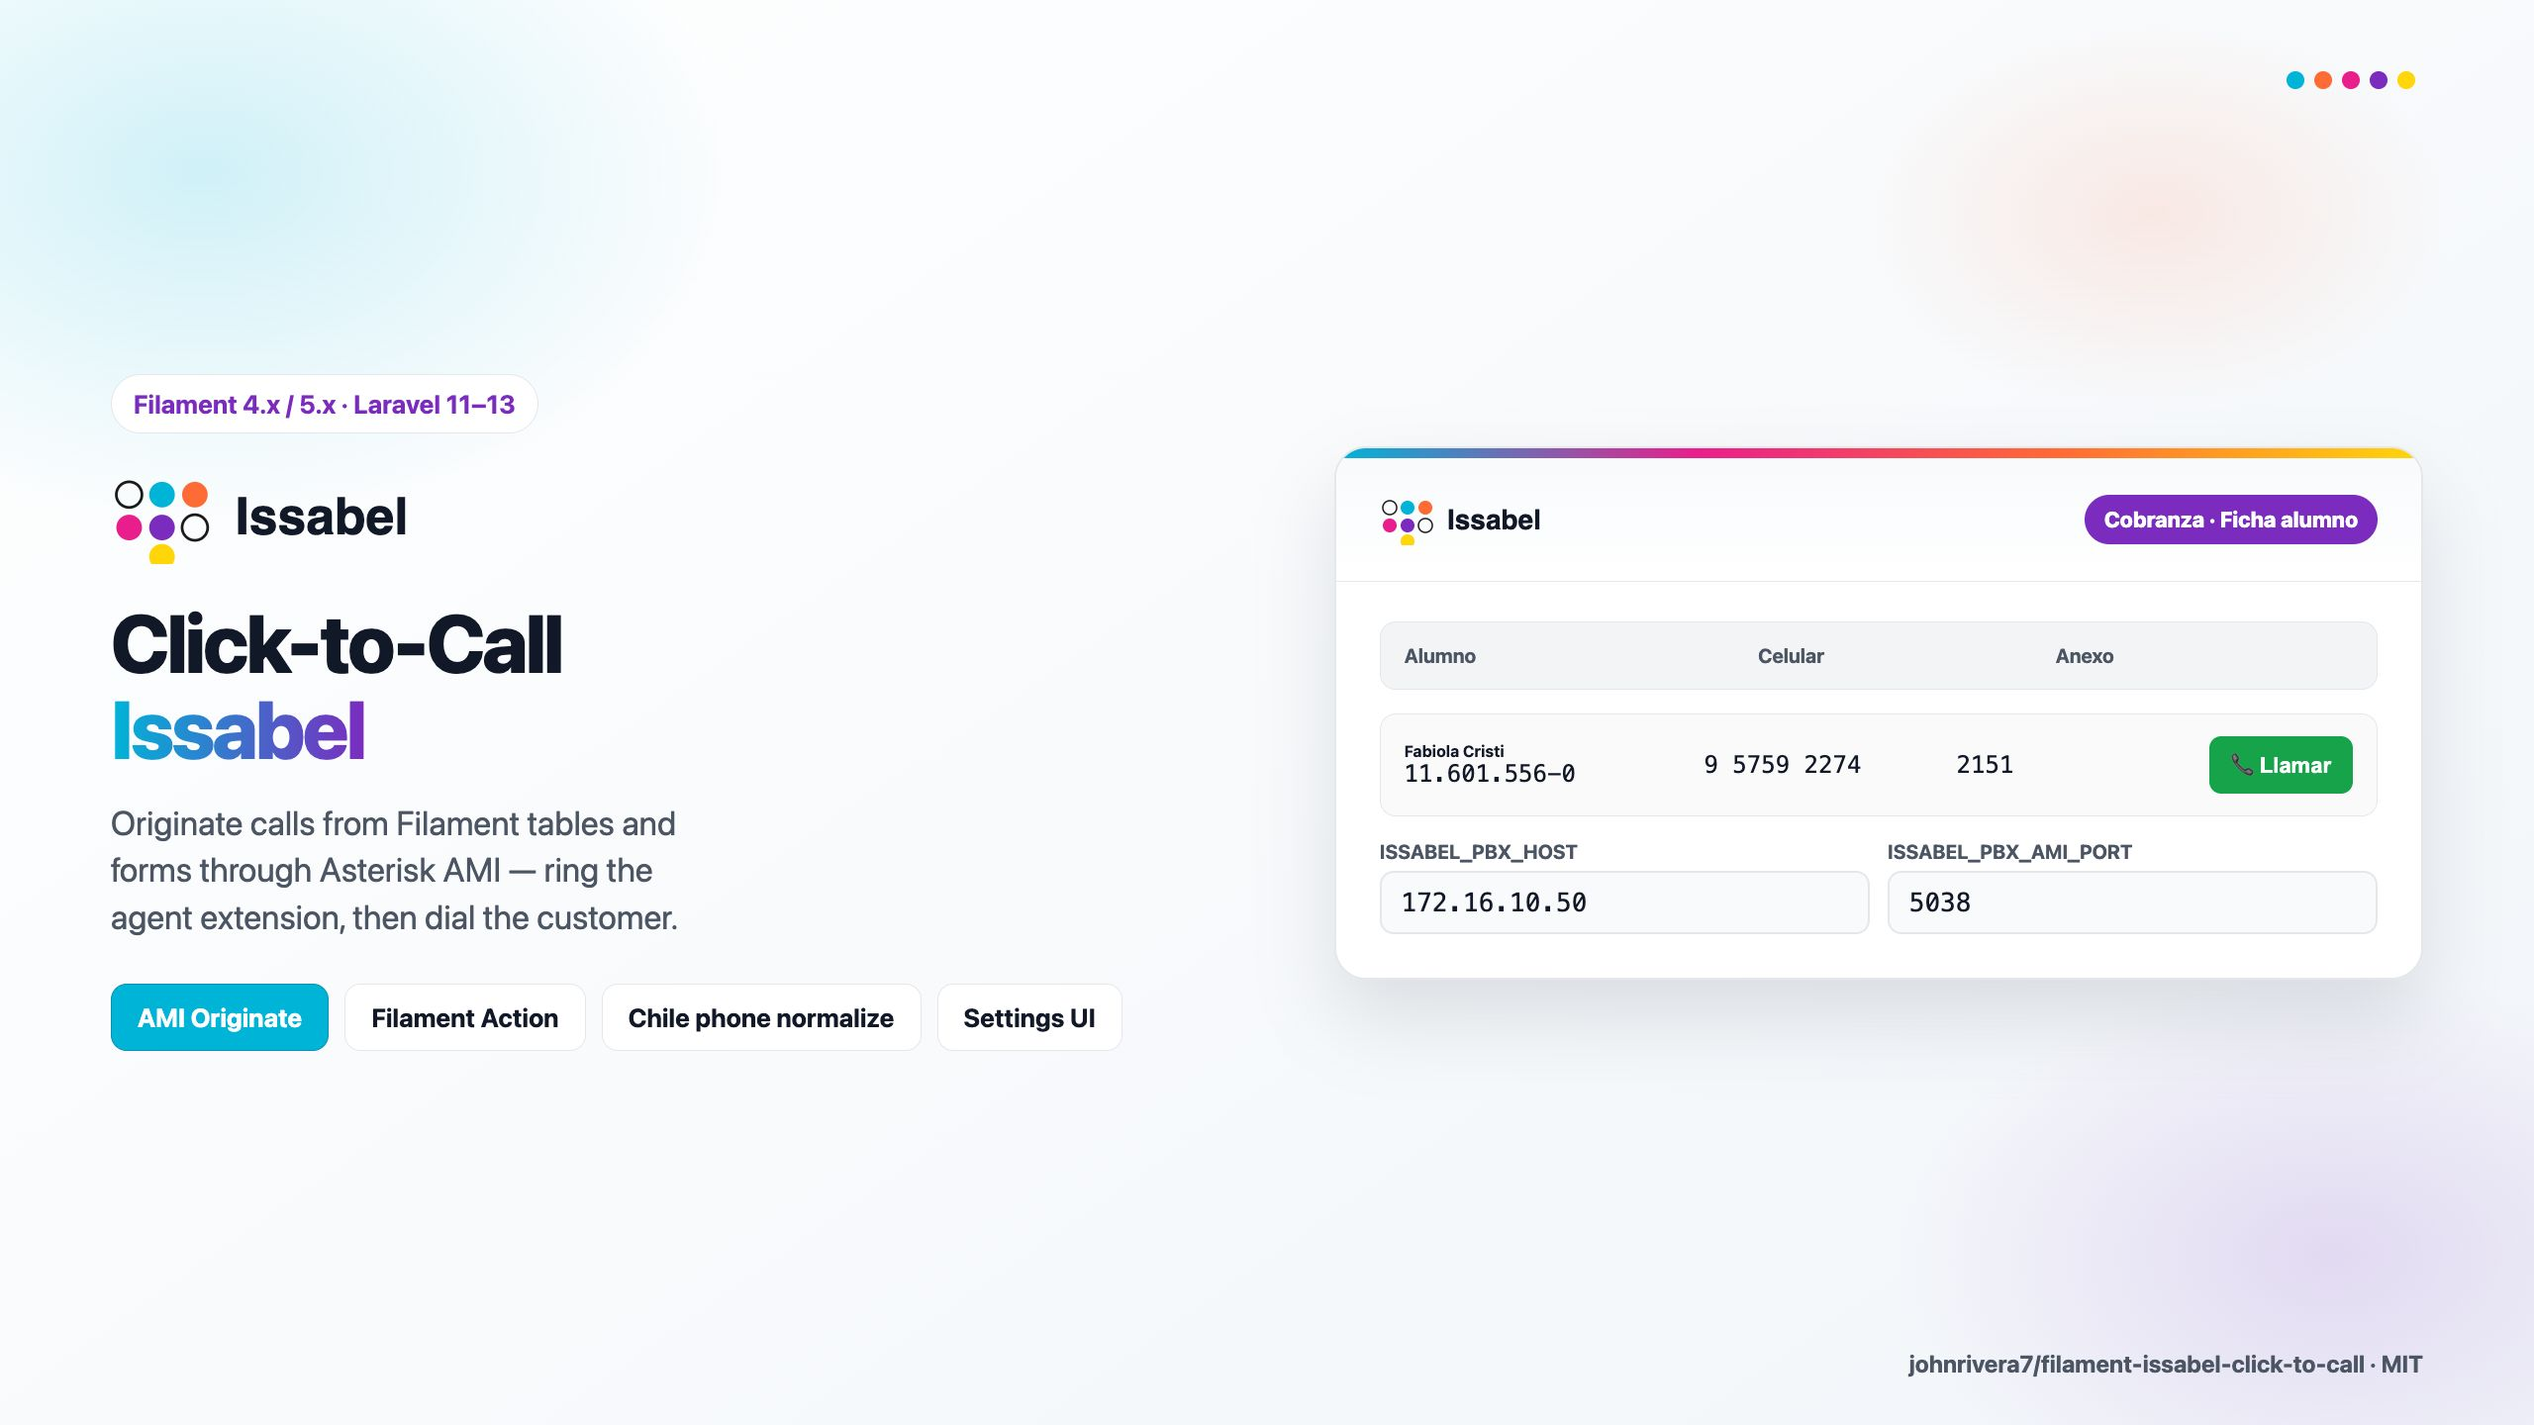
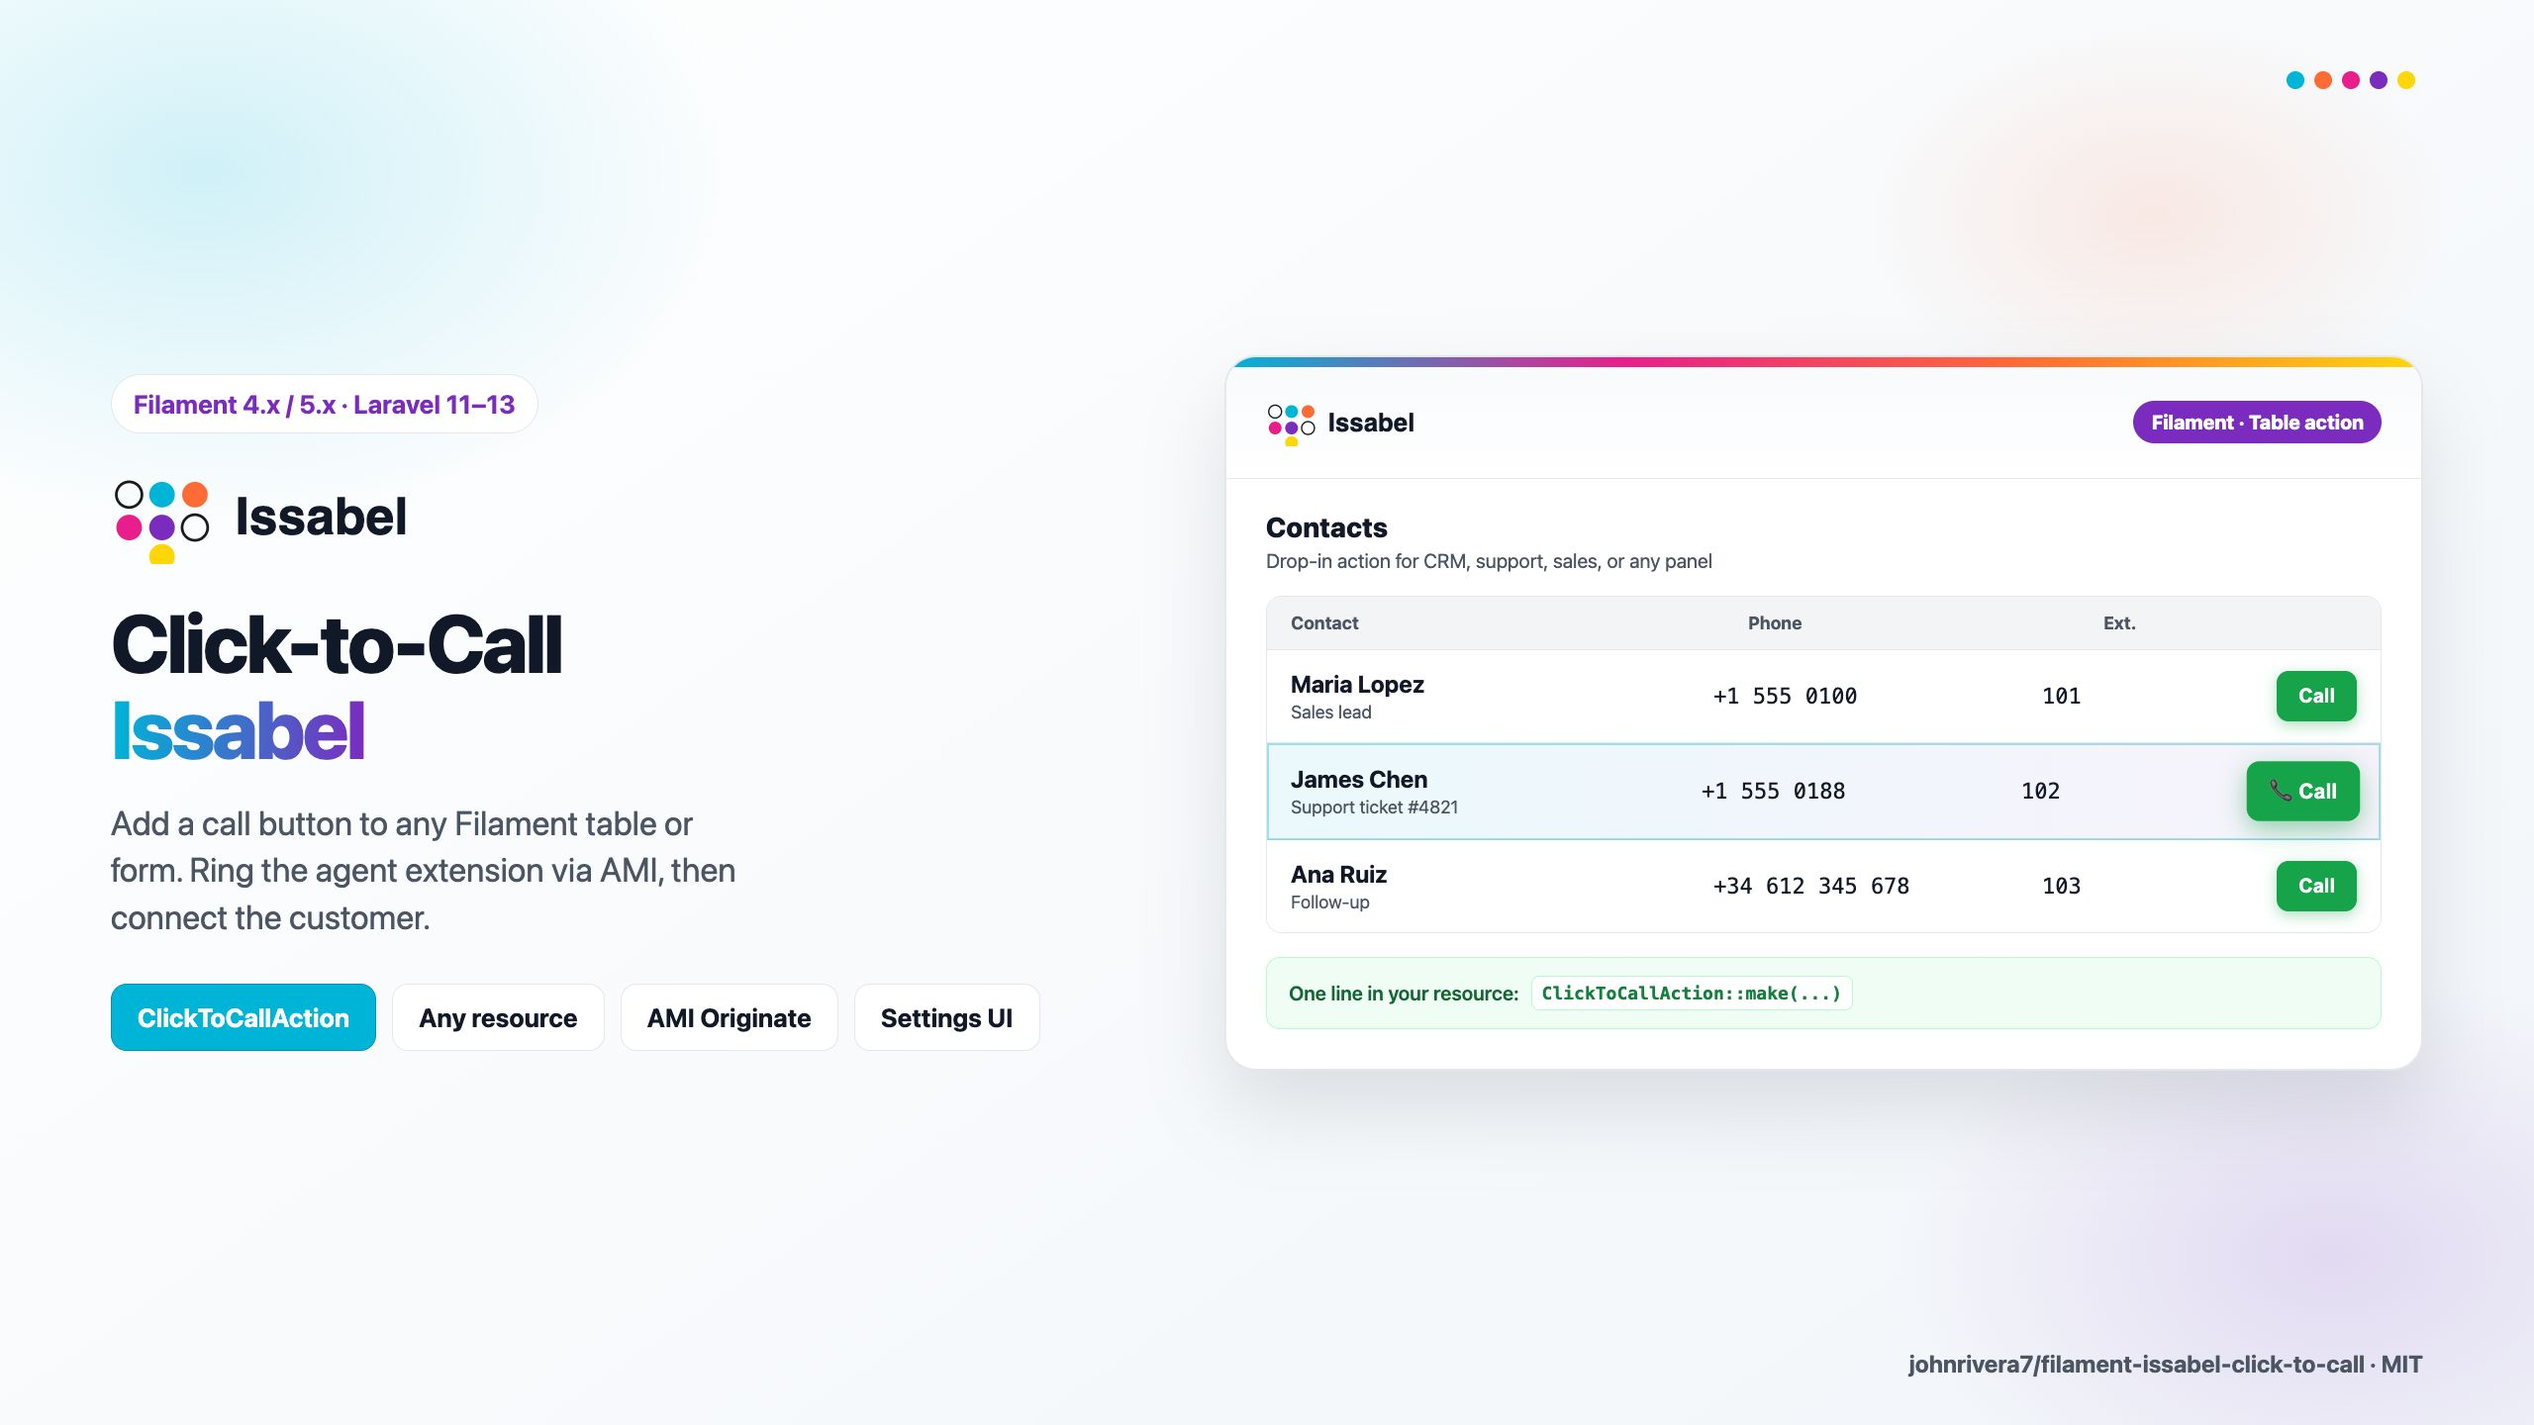
Refresh directory art with generic Filament call-button mockup.
Remove cobranza/student-specific UI so the plugin reads as business-agnostic.

diff --git a/art/banner.html b/art/banner.html
@@ -25,7 +25,7 @@
     .stage {
       width: 2560px; height: 1440px; position: relative;
       padding: 96px 112px; display: grid;
-      grid-template-columns: 1.05fr 1fr; gap: 80px; align-items: center;
+      grid-template-columns: 1fr 1.15fr; gap: 72px; align-items: center;
       background:
         radial-gradient(900px 600px at 8% 12%, rgba(0,180,216,.18), transparent 60%),
         radial-gradient(800px 520px at 92% 88%, rgba(123,44,191,.14), transparent 55%),
@@ -43,7 +43,7 @@
     .logo { height: 96px; margin-bottom: 36px; display: block; }
     h1 {
       font-size: 82px; line-height: 1.06; letter-spacing: -0.03em;
-      font-weight: 800; margin-bottom: 28px; max-width: 11ch;
+      font-weight: 800; margin-bottom: 28px; max-width: 12ch;
     }
     h1 span {
       background: linear-gradient(90deg, var(--iss-cyan), var(--iss-purple));
@@ -51,7 +51,7 @@
     }
     .lead {
       font-size: 34px; line-height: 1.4; color: var(--iss-muted);
-      max-width: 30ch; margin-bottom: 44px;
+      max-width: 32ch; margin-bottom: 44px;
     }
     .pills { display: flex; flex-wrap: wrap; gap: 16px; }
     .pill {
@@ -70,34 +70,63 @@
     }
     .card-head {
       display: flex; align-items: center; justify-content: space-between;
-      padding: 36px 44px; border-bottom: 1px solid var(--iss-border);
+      padding: 32px 40px; border-bottom: 1px solid var(--iss-border);
       background: linear-gradient(180deg, #F8FAFC, #fff);
     }
-    .card-head img { height: 52px; }
+    .card-head img { height: 48px; }
     .tag {
-      font-size: 22px; font-weight: 800; color: #fff; background: var(--iss-purple);
-      border-radius: 999px; padding: 12px 20px;
+      font-size: 20px; font-weight: 800; color: #fff; background: var(--iss-purple);
+      border-radius: 999px; padding: 10px 18px;
     }
-    .card-body { padding: 40px 44px 44px; display: grid; gap: 24px; }
-    .row-table {
-      display: grid; grid-template-columns: 1.2fr 1fr 1fr auto;
-      gap: 16px; align-items: center; padding: 22px 24px;
-      border: 1px solid var(--iss-border); border-radius: 16px; background: #FAFAFA;
+    .card-body { padding: 32px 40px 40px; }
+    .resource-title {
+      font-size: 28px; font-weight: 800; margin-bottom: 6px;
     }
-    .row-table.head { background: #F3F4F6; font-size: 20px; font-weight: 700; color: var(--iss-muted); }
-    .mono { font-family: ui-monospace, Menlo, monospace; font-size: 24px; }
+    .resource-sub {
+      font-size: 20px; color: var(--iss-muted); margin-bottom: 24px;
+    }
+    .table {
+      border: 1px solid var(--iss-border); border-radius: 16px; overflow: hidden;
+    }
+    .table-row {
+      display: grid; grid-template-columns: 1.3fr 1fr 0.7fr auto;
+      gap: 16px; align-items: center; padding: 20px 24px;
+      border-bottom: 1px solid var(--iss-border); background: #fff;
+    }
+    .table-row:last-child { border-bottom: 0; }
+    .table-row.head {
+      background: #F3F4F6; font-size: 18px; font-weight: 700;
+      color: var(--iss-muted); padding: 16px 24px;
+    }
+    .table-row.highlight {
+      background: linear-gradient(90deg, rgba(0,180,216,.08), rgba(123,44,191,.06));
+      outline: 2px solid rgba(0,180,216,.35);
+      outline-offset: -2px;
+    }
+    .contact-name { font-size: 24px; font-weight: 700; }
+    .contact-meta { font-size: 18px; color: var(--iss-muted); margin-top: 4px; }
+    .mono { font-family: ui-monospace, Menlo, monospace; font-size: 22px; color: var(--iss-ink); }
     .btn-call {
       background: #16A34A; color: #fff; border: 0; border-radius: 12px;
-      padding: 14px 22px; font-size: 22px; font-weight: 800;
+      padding: 14px 22px; font-size: 20px; font-weight: 800;
       display: inline-flex; align-items: center; gap: 10px;
+      box-shadow: 0 4px 14px rgba(22,163,74,.35);
     }
-    .field label { display: block; font-size: 20px; font-weight: 700; color: var(--iss-muted); margin-bottom: 8px; }
-    .field .input {
-      height: 64px; border: 2px solid var(--iss-border); border-radius: 14px;
-      background: #F9FAFB; display: flex; align-items: center; padding: 0 20px;
-      font-size: 26px; font-family: ui-monospace, Menlo, monospace;
+    .btn-call.primary {
+      transform: scale(1.06);
+      box-shadow: 0 8px 24px rgba(22,163,74,.45);
     }
-    .grid2 { display: grid; grid-template-columns: 1fr 1fr; gap: 18px; }
+    .action-hint {
+      margin-top: 24px; padding: 18px 22px; border-radius: 14px;
+      background: #F0FDF4; border: 1px solid #BBF7D0;
+      font-size: 20px; color: #166534; font-weight: 600;
+      display: flex; align-items: center; gap: 12px;
+    }
+    .code {
+      font-family: ui-monospace, Menlo, monospace; font-size: 18px;
+      background: #fff; border: 1px solid #BBF7D0; border-radius: 8px;
+      padding: 6px 10px; color: #15803D;
+    }
     .corner {
       position: absolute; right: 112px; bottom: 48px;
       font-size: 24px; color: var(--iss-muted); font-weight: 700;
@@ -117,11 +146,11 @@
       <div class="badge"><span>Filament 4.x / 5.x · Laravel 11–13</span></div>
       <img class="logo" src="brand/issabel-logo.svg" alt="Issabel">
       <h1>Click-to-Call <span>Issabel</span></h1>
-      <p class="lead">Originate calls from Filament tables and forms through Asterisk AMI — ring the agent extension, then dial the customer.</p>
+      <p class="lead">Add a call button to any Filament table or form. Ring the agent extension via AMI, then connect the customer.</p>
       <div class="pills">
-        <div class="pill alt">AMI Originate</div>
-        <div class="pill">Filament Action</div>
-        <div class="pill">Chile phone normalize</div>
+        <div class="pill alt">ClickToCallAction</div>
+        <div class="pill">Any resource</div>
+        <div class="pill">AMI Originate</div>
         <div class="pill">Settings UI</div>
       </div>
     </div>
@@ -129,21 +158,46 @@
       <div class="accent-bar"></div>
       <div class="card-head">
         <img src="brand/issabel-logo.svg" alt="">
-        <span class="tag">Cobranza · Ficha alumno</span>
+        <span class="tag">Filament · Table action</span>
       </div>
       <div class="card-body">
-        <div class="row-table head">
-          <div>Alumno</div><div>Celular</div><div>Anexo</div><div></div>
+        <div class="resource-title">Contacts</div>
+        <div class="resource-sub">Drop-in action for CRM, support, sales, or any panel</div>
+        <div class="table">
+          <div class="table-row head">
+            <div>Contact</div><div>Phone</div><div>Ext.</div><div></div>
+          </div>
+          <div class="table-row">
+            <div>
+              <div class="contact-name">Maria Lopez</div>
+              <div class="contact-meta">Sales lead</div>
+            </div>
+            <div class="mono">+1 555 0100</div>
+            <div class="mono">101</div>
+            <div><button class="btn-call">Call</button></div>
+          </div>
+          <div class="table-row highlight">
+            <div>
+              <div class="contact-name">James Chen</div>
+              <div class="contact-meta">Support ticket #4821</div>
+            </div>
+            <div class="mono">+1 555 0188</div>
+            <div class="mono">102</div>
+            <div><button class="btn-call primary">📞 Call</button></div>
+          </div>
+          <div class="table-row">
+            <div>
+              <div class="contact-name">Ana Ruiz</div>
+              <div class="contact-meta">Follow-up</div>
+            </div>
+            <div class="mono">+34 612 345 678</div>
+            <div class="mono">103</div>
+            <div><button class="btn-call">Call</button></div>
+          </div>
         </div>
-        <div class="row-table">
-          <div><strong>Fabiola Cristi</strong><br><span class="mono">11.601.556-0</span></div>
-          <div class="mono">9 5759 2274</div>
-          <div class="mono">2151</div>
-          <div><button class="btn-call">📞 Llamar</button></div>
-        </div>
-        <div class="grid2">
-          <div class="field"><label>ISSABEL_PBX_HOST</label><div class="input">172.16.10.50</div></div>
-          <div class="field"><label>ISSABEL_PBX_AMI_PORT</label><div class="input">5038</div></div>
+        <div class="action-hint">
+          <span>One line in your resource:</span>
+          <span class="code">ClickToCallAction::make(...)</span>
         </div>
       </div>
     </div>

diff --git a/art/thumbnail.html b/art/thumbnail.html
@@ -17,28 +17,44 @@
     }
     .stage {
       width: 1920px; height: 1080px; padding: 64px 80px;
-      display: grid; grid-template-columns: 1fr 1.1fr; gap: 48px; align-items: center;
+      display: grid; grid-template-columns: 1fr 1.15fr; gap: 48px; align-items: center;
     }
     img.logo { height: 72px; margin-bottom: 24px; }
     h1 { font-size: 58px; line-height: 1.08; font-weight: 800; margin-bottom: 16px; }
     h1 span { color: var(--iss-cyan); }
-    p { font-size: 26px; color: var(--iss-muted); max-width: 22ch; line-height: 1.4; }
+    p { font-size: 26px; color: var(--iss-muted); max-width: 24ch; line-height: 1.4; margin-bottom: 28px; }
+    .pill {
+      display: inline-block; background: #fff; border: 1px solid var(--iss-border);
+      border-radius: 999px; padding: 12px 20px; font-size: 20px; font-weight: 700;
+      color: var(--iss-purple);
+    }
     .card {
       background: #fff; border: 2px solid var(--iss-border); border-radius: 24px;
       overflow: hidden; box-shadow: 0 24px 48px rgba(17,24,39,.1);
     }
     .bar { height: 8px; background: linear-gradient(90deg, var(--iss-cyan), var(--iss-purple)); }
-    .inner { padding: 32px 36px; }
+    .inner { padding: 28px 32px 32px; }
+    .title { font-size: 24px; font-weight: 800; margin-bottom: 4px; }
+    .sub { font-size: 18px; color: var(--iss-muted); margin-bottom: 20px; }
+    .table { border: 1px solid var(--iss-border); border-radius: 14px; overflow: hidden; }
     .row {
-      display: grid; grid-template-columns: 1fr auto auto; gap: 20px; align-items: center;
-      padding: 20px; border: 1px solid var(--iss-border); border-radius: 14px; background: #FAFAFA;
-      margin-top: 20px;
+      display: grid; grid-template-columns: 1.2fr 1fr 0.6fr auto; gap: 16px; align-items: center;
+      padding: 18px 20px; border-bottom: 1px solid var(--iss-border); background: #fff;
     }
+    .row:last-child { border-bottom: 0; }
+    .row.head { background: #F3F4F6; font-size: 16px; font-weight: 700; color: var(--iss-muted); padding: 14px 20px; }
+    .row.focus {
+      background: linear-gradient(90deg, rgba(0,180,216,.1), rgba(123,44,191,.06));
+      outline: 2px solid rgba(0,180,216,.3); outline-offset: -2px;
+    }
+    .name { font-size: 20px; font-weight: 700; }
+    .meta { font-size: 15px; color: var(--iss-muted); margin-top: 2px; }
+    .mono { font-family: ui-monospace, Menlo, monospace; font-size: 18px; }
     .btn {
       background: #16A34A; color: #fff; border: 0; border-radius: 10px;
-      padding: 12px 20px; font-size: 20px; font-weight: 800;
+      padding: 12px 20px; font-size: 18px; font-weight: 800;
+      box-shadow: 0 4px 12px rgba(22,163,74,.35);
     }
-    .mono { font-family: ui-monospace, Menlo, monospace; font-size: 22px; }
   </style>
 </head>
 <body>
@@ -46,16 +62,36 @@
     <div>
       <img class="logo" src="brand/issabel-logo.svg" alt="Issabel">
       <h1>Click-to-Call <span>Issabel</span></h1>
-      <p>Filament plugin · Asterisk AMI · ring agent, dial customer</p>
+      <p>Call button for any Filament table or form — AMI originate to your PBX.</p>
+      <span class="pill">ClickToCallAction</span>
     </div>
     <div class="card">
       <div class="bar"></div>
       <div class="inner">
-        <strong style="font-size:22px;color:var(--iss-muted)">DATOS ESTUDIANTE</strong>
-        <div class="row">
-          <div><strong>Fabiola Cristi</strong><br><span class="mono">9 5759 2274</span></div>
-          <div class="mono">Anexo 2151</div>
-          <button class="btn">📞 Llamar</button>
+        <div class="title">Contacts</div>
+        <div class="sub">CRM · Support · Sales</div>
+        <div class="table">
+          <div class="row head">
+            <div>Contact</div><div>Phone</div><div>Ext.</div><div></div>
+          </div>
+          <div class="row focus">
+            <div>
+              <div class="name">Maria Lopez</div>
+              <div class="meta">Sales lead</div>
+            </div>
+            <div class="mono">+1 555 0100</div>
+            <div class="mono">101</div>
+            <button class="btn">📞 Call</button>
+          </div>
+          <div class="row">
+            <div>
+              <div class="name">James Chen</div>
+              <div class="meta">Support</div>
+            </div>
+            <div class="mono">+1 555 0188</div>
+            <div class="mono">102</div>
+            <button class="btn">Call</button>
+          </div>
         </div>
       </div>
     </div>
